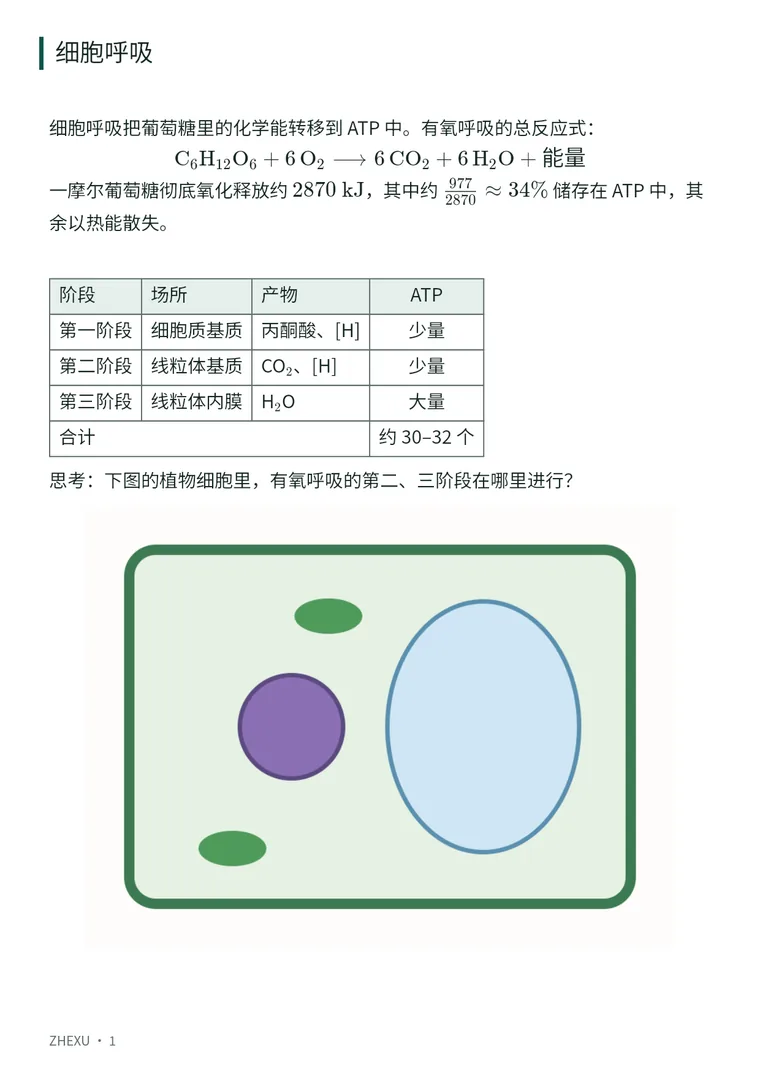
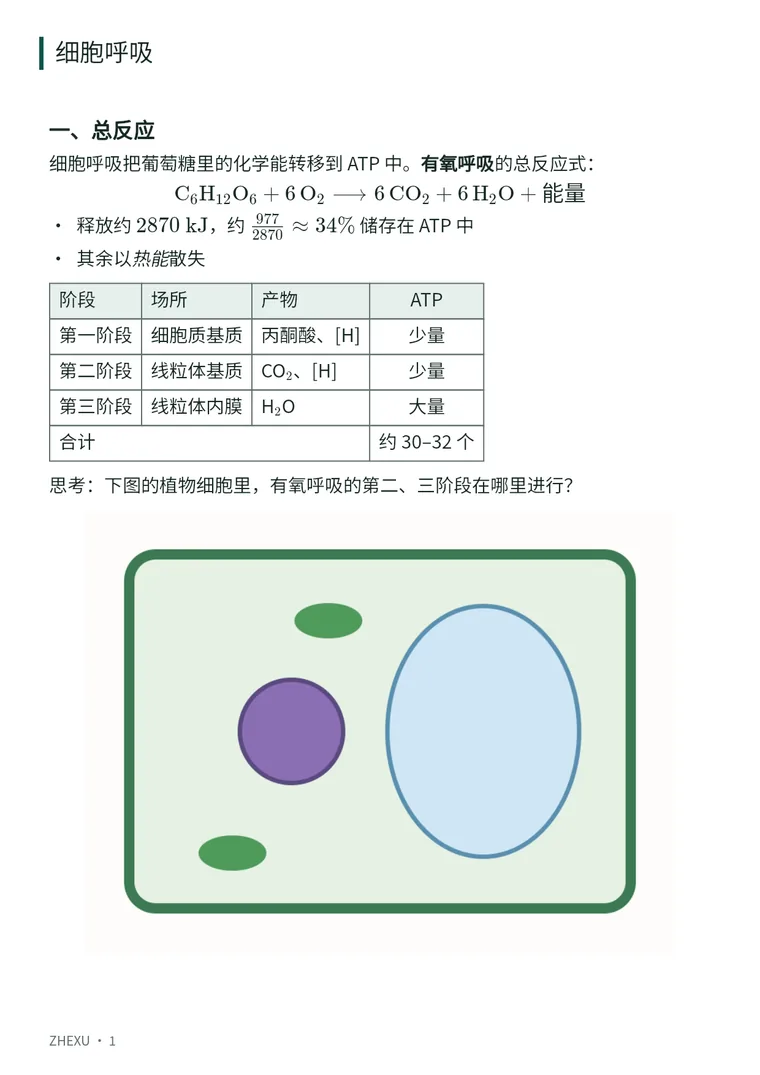
test(extensions): have the scripted model write its handout in Markdown
The browser tests' stand-in for the model now writes its handout the way
a real model did (headings, a numbered and a bullet list, bold text, a
formula and a table), so the production-build and Docker runs take the
renderer's Markdown path. The title stays the same.

The sample handout page in the READMEs and on the showcase page now
shows a heading, bold and italic text and a list too, still on one page.

diff --git a/tests/extensions/zhexu-sample-handouts.test.ts b/tests/extensions/zhexu-sample-handouts.test.ts
@@ -25,10 +25,11 @@ const PICTURE_ID = 'ast_sample_cell_diagram';
 const STORED_WIDTH = 760;
 
 const FORMULAS_BODY = [
-  '细胞呼吸把葡萄糖里的化学能转移到 ATP 中。有氧呼吸的总反应式：',
+  '## 一、总反应',
+  '细胞呼吸把葡萄糖里的化学能转移到 ATP 中。**有氧呼吸**的总反应式：',
   '\\[ \\mathrm{C_6H_{12}O_6} + 6\\,\\mathrm{O_2} \\longrightarrow 6\\,\\mathrm{CO_2} + 6\\,\\mathrm{H_2O} + \\text{能量} \\]',
-  '一摩尔葡萄糖彻底氧化释放约 \\(2870\\ \\mathrm{kJ}\\)，其中约 \\(\\frac{977}{2870} \\approx 34\\%\\) 储存在 ATP 中，其余以热能散失。',
-  '',
+  '- 释放约 \\(2870\\ \\mathrm{kJ}\\)，约 \\(\\frac{977}{2870} \\approx 34\\%\\) 储存在 ATP 中',
+  '- 其余以*热能*散失',
   '| 阶段 | 场所 | 产物 | ATP |',
   '| --- | --- | --- | :---: |',
   '| 第一阶段 | 细胞质基质 | 丙酮酸、[H] | 少量 |',

diff --git a/extensions/zhexu/site/index.html b/extensions/zhexu/site/index.html
@@ -361,12 +361,12 @@
               src="assets/shots/sample-handout-formulas.webp"
               width="760"
               height="1075"
-              alt="一页 A4 讲义样张：化学方程式、行内公式、带合并单元格的表格和一张细胞示意图。"
+              alt="一页 A4 讲义样张：标题、粗体和列表，化学方程式、行内公式、带合并单元格的表格和一张细胞示意图。"
               data-i18n-attr="alt:samples.formulas.alt"
               loading="lazy"
               decoding="async"
             />
-            <figcaption data-i18n="samples.formulas">讲义：公式、表格和图片。</figcaption>
+            <figcaption data-i18n="samples.formulas">讲义：Markdown、公式、表格和图片。</figcaption>
           </figure>
           <figure class="zx-figure">
             <img

diff --git a/extensions/zhexu/site/site.strings.js b/extensions/zhexu/site/site.strings.js
@@ -74,9 +74,9 @@ window.ZX_STRINGS = {
     'screens.dark.alt': 'The classroom in dark mode.',
     'samples.note':
       'The three pages below are real output of the renderer, made from test content.',
-    'samples.formulas': 'A handout with formulas, a table and a picture.',
+    'samples.formulas': 'A handout with Markdown, formulas, a table and a picture.',
     'samples.formulas.alt':
-      'A sample A4 handout page: a chemical equation, inline formulas, a table with merged cells and a cell diagram.',
+      'A sample A4 handout page: a heading, bold text and a list, a chemical equation, inline formulas, a table with merged cells and a cell diagram.',
     'samples.handwriting': 'A handout in the Chinese handwriting face.',
     'samples.handwriting.alt': 'A sample A4 handout page set in a Chinese handwriting face.',
     'samples.annotation':

diff --git a/.github/README.md b/.github/README.md
@@ -39,9 +39,9 @@ Available now:
 
 They are off until their switch is set (`ZHEXU_DELIVERABLES_ENABLED`, `ZHEXU_IMAGE_ANNOTATIONS_ENABLED`). They are covered by unit tests and by [browser tests](/extensions/zhexu/e2e/README.md) that CI runs end to end against a production build and against the Docker image, with a scripted stand-in for the model. One run with a real model (DeepSeek Flash) has made a handout and an annotated image; other models are not checked.
 
-| Formulas, a table and a picture | The handwriting face | An annotated image |
+| Markdown, formulas, a table and a picture | The handwriting face | An annotated image |
 | --- | --- | --- |
-| ![A sample A4 handout page: a chemical equation, inline formulas, a table with merged cells and a cell diagram](/extensions/zhexu/site/assets/shots/sample-handout-formulas.webp) | ![A sample A4 handout page set in a Chinese handwriting face](/extensions/zhexu/site/assets/shots/sample-handout.webp) | ![A sample annotated image: a drawing with numbered markers and the labels listed under it](/extensions/zhexu/site/assets/shots/sample-annotation.webp) |
+| ![A sample A4 handout page: a heading, bold text and a list, a chemical equation, inline formulas, a table with merged cells and a cell diagram](/extensions/zhexu/site/assets/shots/sample-handout-formulas.webp) | ![A sample A4 handout page set in a Chinese handwriting face](/extensions/zhexu/site/assets/shots/sample-handout.webp) | ![A sample annotated image: a drawing with numbered markers and the labels listed under it](/extensions/zhexu/site/assets/shots/sample-annotation.webp) |
 
 These three pages are real output of the renderer, made from test content. The first is rendered by [`zhexu-sample-handouts.test.ts`](/tests/extensions/zhexu-sample-handouts.test.ts) when `ZHEXU_RENDER_SAMPLES=1` is set.
 

diff --git a/.github/README-zh.md b/.github/README-zh.md
@@ -39,9 +39,9 @@
 
 这些功能默认关闭，由两个开关控制（`ZHEXU_DELIVERABLES_ENABLED`、`ZHEXU_IMAGE_ANNOTATIONS_ENABLED`）。它们有单元测试，也有[浏览器测试](/extensions/zhexu/e2e/README.md)：CI 会对着生产构建和 Docker 镜像各端到端跑一遍，用的是按脚本应答的模拟模型。用真实模型（DeepSeek Flash）跑过一次，做出了一份讲义和一张标注图；其他模型还没有验证。
 
-| 公式、表格和图片 | 手写体 | 图片标注 |
+| Markdown、公式、表格和图片 | 手写体 | 图片标注 |
 | --- | --- | --- |
-| ![一页 A4 讲义样张：化学方程式、行内公式、带合并单元格的表格和一张细胞示意图](/extensions/zhexu/site/assets/shots/sample-handout-formulas.webp) | ![一页手写体的 A4 讲义样张](/extensions/zhexu/site/assets/shots/sample-handout.webp) | ![一张带标注的图片样张：图上有编号标记，标注列在图的下方](/extensions/zhexu/site/assets/shots/sample-annotation.webp) |
+| ![一页 A4 讲义样张：标题、粗体和列表，化学方程式、行内公式、带合并单元格的表格和一张细胞示意图](/extensions/zhexu/site/assets/shots/sample-handout-formulas.webp) | ![一页手写体的 A4 讲义样张](/extensions/zhexu/site/assets/shots/sample-handout.webp) | ![一张带标注的图片样张：图上有编号标记，标注列在图的下方](/extensions/zhexu/site/assets/shots/sample-annotation.webp) |
 
 这三页是渲染器的真实输出，内容是测试用的。第一页由 [`zhexu-sample-handouts.test.ts`](/tests/extensions/zhexu-sample-handouts.test.ts) 在设置 `ZHEXU_RENDER_SAMPLES=1` 时生成。
 
